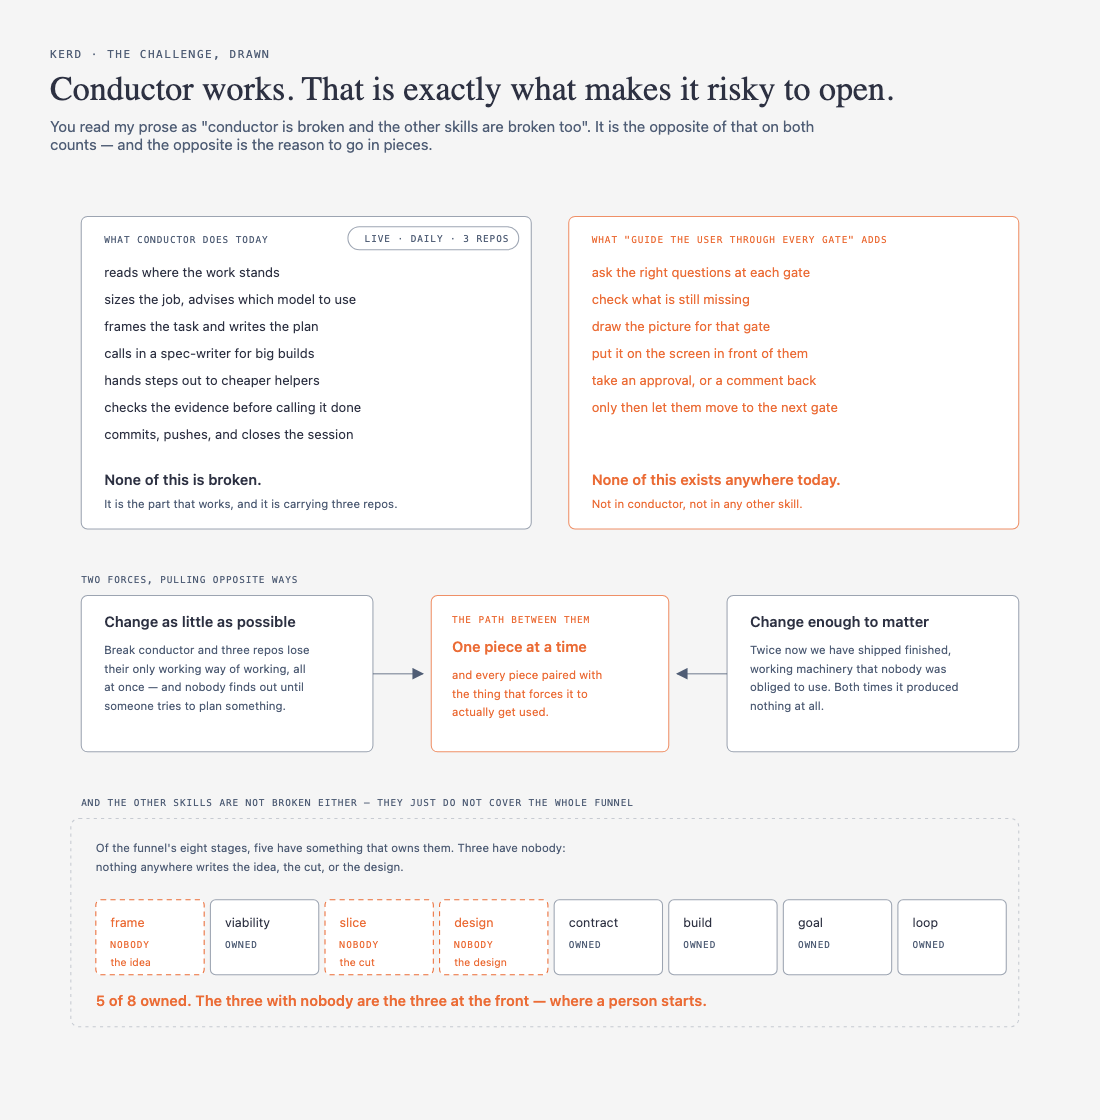
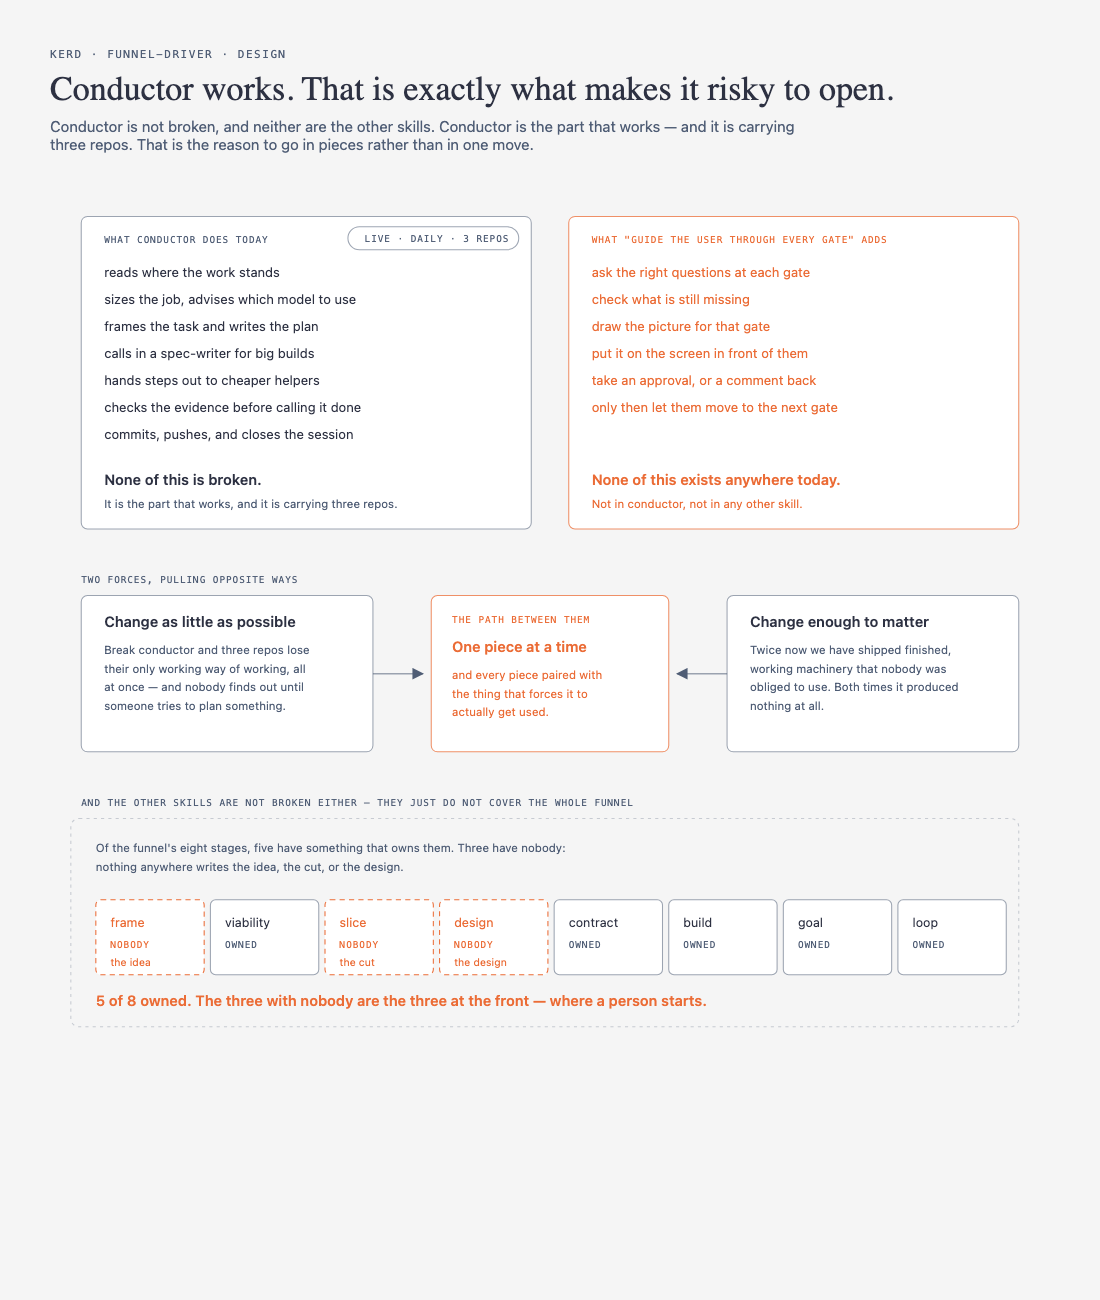
Seal funnel-driver's two design views — Tony, 2026-08-23
why the driver sits above conductor rather than inside it
    docs/design/funnel-driver/why-an-umbrella.html   fp:54f84887b8b8
  how one gate behaves, end to end
    docs/design/funnel-driver/gate-loop.html         fp:47883502cf4b

2 sealed · 0 refused · 0 already approved · 0 diverged.

The item returns from "enters at slice" to "enters at design"; what remains for
contract is the design doc and its GO record. Editing either drawing now drops
its approval and the design rung refuses again — which is the point.

Conversational framing was neutralised before sealing: both were written mid
-discussion and carried second-person asides ("you read my prose as...", "your
version, redrawn") that would have read as a transcript rather than a design
record once locked. Content unchanged; PNGs re-rendered from the edited source.

Local suite green: selftest 41, audit clean, board drift none.

Claude-Session: https://claude.ai/code/session_01EhZfBJVAkJfHw2HhQ86Ldf

diff --git a/docs/design/funnel-driver/gate-loop.html b/docs/design/funnel-driver/gate-loop.html
@@ -17,9 +17,9 @@
 </head>
 <body>
   <div class="wrap">
-    <p class="eyebrow">Kerd · the first gate · your corrections</p>
+    <p class="eyebrow">Kerd · funnel-driver · design</p>
     <h1>The idea is still moving. The gate has to move with&nbsp;it.</h1>
-    <p class="sub">Your version, redrawn. The browser loop moved inside the package step, the questions now feed the completeness check as well, and nothing gets locked here — because at this gate the idea is meant to still be changing.</p>
+    <p class="sub">The showing-and-commenting loop sits inside the package step rather than after it, the same question list feeds the completeness check, and nothing is locked at this gate — because here the idea is meant to still be changing.</p>
     <svg viewBox="0 0 960 940" role="img" aria-labelledby="g2-t g2-d">
       <title id="g2-t">The first gate, corrected</title>
       <desc id="g2-d">In comes a sentence plus whatever material the person already has: documents, links, pictures. A short set of questions follows, deliberately small, sized to do two jobs at once: enough to judge whether the idea is worth pursuing, and enough to become the first requirements. Then a loop: the umbrella starts the package of writing, data and diagrams, opens it on the person's screen, takes their comments, and reshapes it. The machine feeds the same loop with what is still missing, derived from the same question set, so the questions define both what is asked and what counts as complete. Out of the gate comes a package the person recognises, agreed for now rather than locked, because validation, analysis and spikes will change it. Separately, every visual already agreed at an earlier gate travels forward, so nothing already settled is argued twice.</desc>

diff --git a/docs/design/funnel-driver/why-an-umbrella.html b/docs/design/funnel-driver/why-an-umbrella.html
@@ -17,9 +17,9 @@
 </head>
 <body>
   <div class="wrap">
-    <p class="eyebrow">Kerd · the challenge, drawn</p>
+    <p class="eyebrow">Kerd · funnel-driver · design</p>
     <h1>Conductor works. That is exactly what makes it risky to open.</h1>
-    <p class="sub">You read my prose as "conductor is broken and the other skills are broken too". It is the opposite of that on both counts — and the opposite is the reason to go in pieces.</p>
+    <p class="sub">Conductor is not broken, and neither are the other skills. Conductor is the part that works — and it is carrying three repos. That is the reason to go in pieces rather than in one move.</p>
     <svg viewBox="0 0 960 830" role="img" aria-labelledby="cl-t cl-d">
       <title id="cl-t">Conductor works, which is what makes it risky to open</title>
       <desc id="cl-d">Conductor today carries seven jobs and is in live daily use across three repositories; none of it is broken. Guiding a user through every gate would add six jobs that exist nowhere today. Two forces pull in opposite directions: changing as little as possible, because breaking conductor takes down the only working protocol in three repositories at once, and changing enough to matter, because this project has twice shipped finished machinery that nobody was obliged to use and which produced nothing. The agreed path between them is one piece at a time, each piece paired with the thing that forces it to be used. Separately, the other skills are not broken either: of the funnel's eight stages, five have an owner in some skill and three — frame, slice and design — have none.</desc>

diff --git a/docs/product/funnel-driver.md b/docs/product/funnel-driver.md
@@ -6,9 +6,11 @@ concerns:
   - concern: why the driver sits above conductor rather than inside it
     viewpoint: nested
     view: docs/design/funnel-driver/why-an-umbrella.html
+    approval: Tony, 2026-08-23 · fp:54f84887b8b8
   - concern: how one gate behaves, end to end
     viewpoint: swimlane
     view: docs/design/funnel-driver/gate-loop.html
+    approval: Tony, 2026-08-23 · fp:47883502cf4b
 ---
 
 # The funnel has no driver — nothing walks an item from idea to launch
